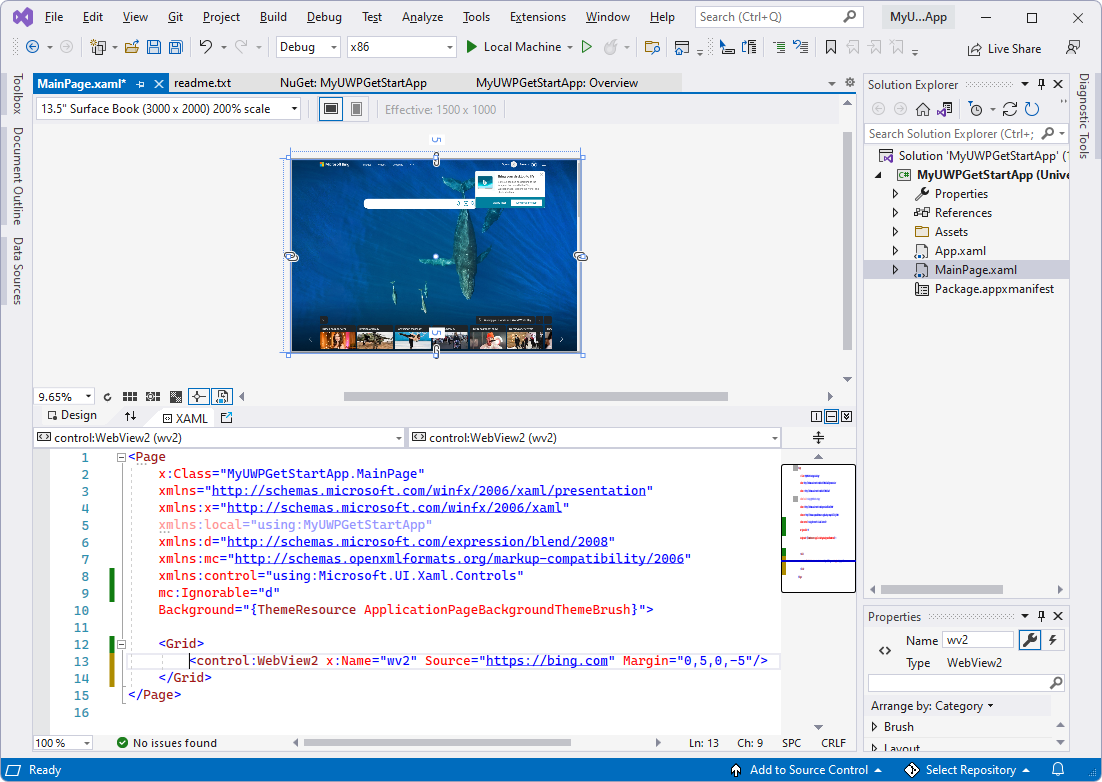
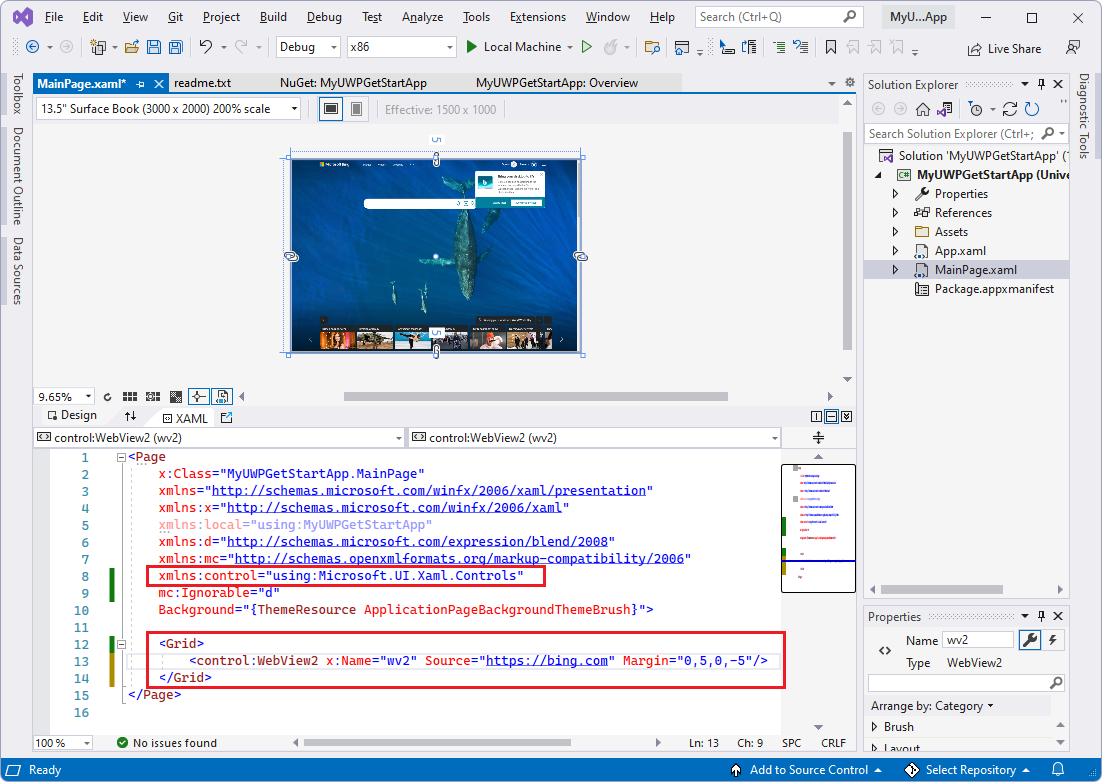
Slight polish WinUI2 GetStart: redbox on code, leadin at top, how zoom, reduce empty panel

Changed region(s): [[0.1234, 0.7059, 0.4936, 0.7673], [0.1234, 0.8593, 0.7096, 0.89], [0.1234, 0.798, 0.7096, 0.8286]]

diff --git a/microsoft-edge/webview2/get-started/winui2.md b/microsoft-edge/webview2/get-started/winui2.md
@@ -37,6 +37,8 @@ The WebView2 WinUI 2 control is in development.  The following features haven't 
 *  Service Workers on Windows devices before 20H2.
 
 
+In this tutorial, you set up your development tools, create an initial WinUI 2 (UWP) app, add a WebView2 control that displays webpage content, and learn about WebView2 concepts along the way.
+
 Follow the major Step sections in sequence, below.
 
 
@@ -206,6 +208,8 @@ Next, you set up this new UWP project to do WinUI 2 and WebView2 development.
 1. On the right, in the **Version** dropdown list, make sure **Latest prerelease** is selected.
 
    ![NuGet Package Manager with WebView2 SDK prerelease selected.](media/winui2-nuget-pkg-mgr-webview2.png)
+
+   _To zoom, right-click > **Open image in new tab**._
 
 1. Click the **Install** (or **Update**) button.
 
